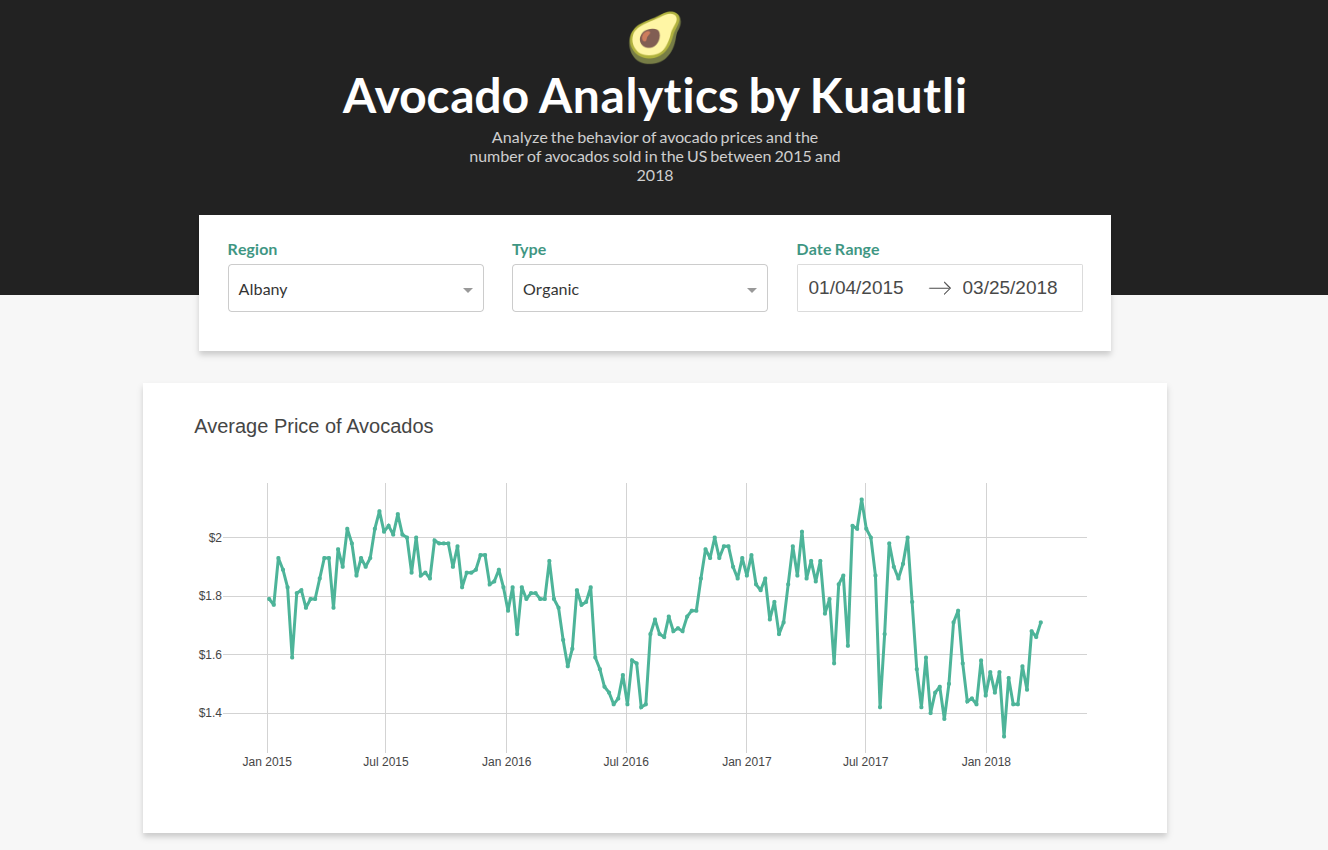
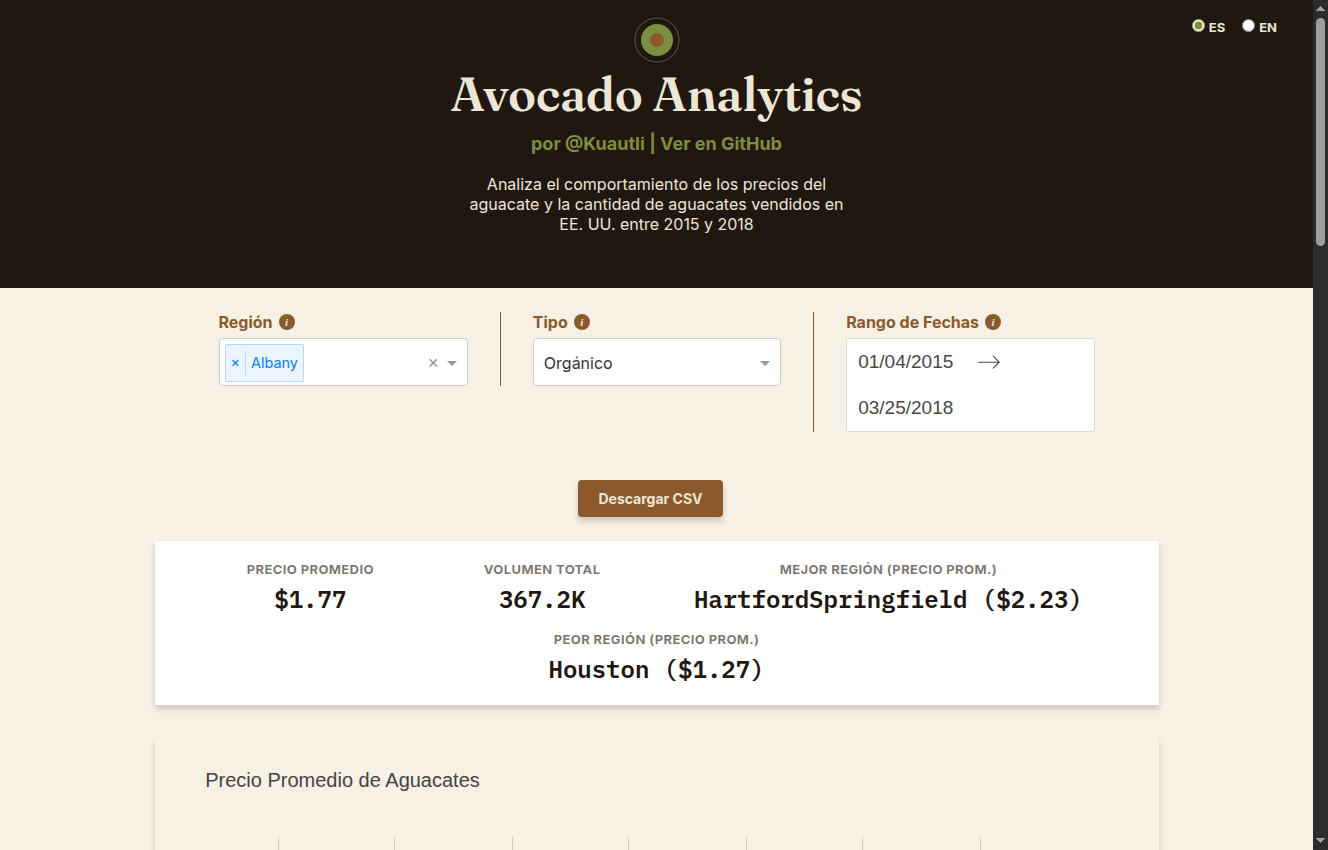
docs(readme): update screenshot and highlight the new visual identity
The README's screenshot still showed the old stock-template look
(near-black header, single teal accent, Lato). Replaces it with a
fresh capture of the redesigned dashboard (Cross-Section Mark, ledger
filter bar, mono-numeral summary panel), and swaps the generic
"Diseño Responsivo" bullet for one that actually names the redesign
(avocado-derived palette/type system) plus a separate bullet for the
narrow-viewport fix.

diff --git a/README.md b/README.md
@@ -21,7 +21,8 @@ Construido con **Python Dash**, incluye múltiples tipos de visualizaciones para
 - **🔍 Filtros Avanzados** – Filtra por región, tipo de aguacate (convencional/orgánico) y rango de fechas
 - **📈 Análisis con Diagramas de Dispersión** – Explora relaciones entre variables con ejes configurables
 - **📦 Gráficas de Caja (Boxplots)** – Compara distribuciones por tipo, región o año
-- **🎨 Diseño Responsivo** – Interfaz moderna y limpia con estilo personalizado
+- **🎨 Identidad Visual Propia** – Paleta, tipografía (Fraunces/Inter/IBM Plex Mono) y un ícono de marca inspirados en el corte transversal del aguacate mismo, no una plantilla genérica
+- **📱 Diseño Responsivo** – Se adapta a pantallas angostas sin desbordes horizontales
 - **⚡ Actualizaciones en Tiempo Real** – Todos los gráficos se actualizan dinámicamente según los filtros
 
 ---